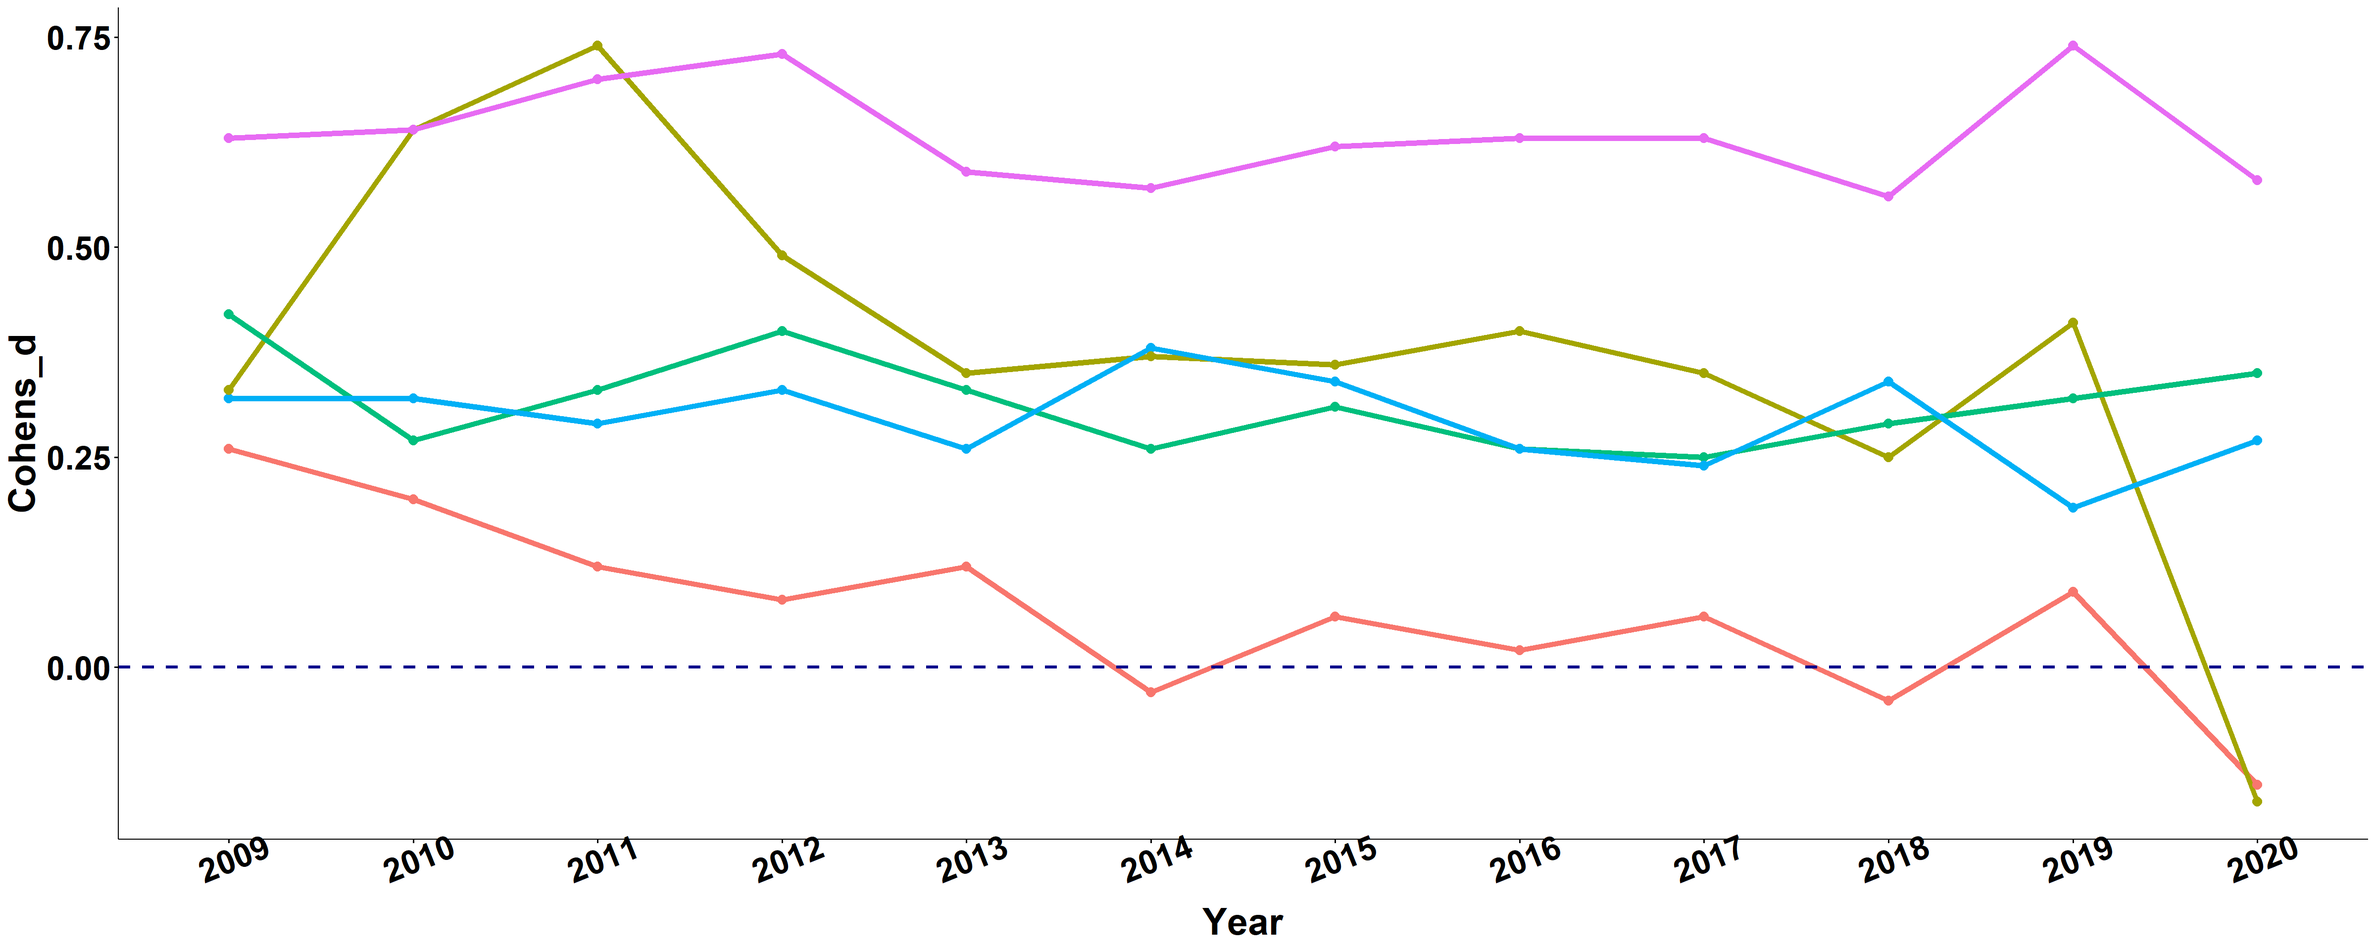
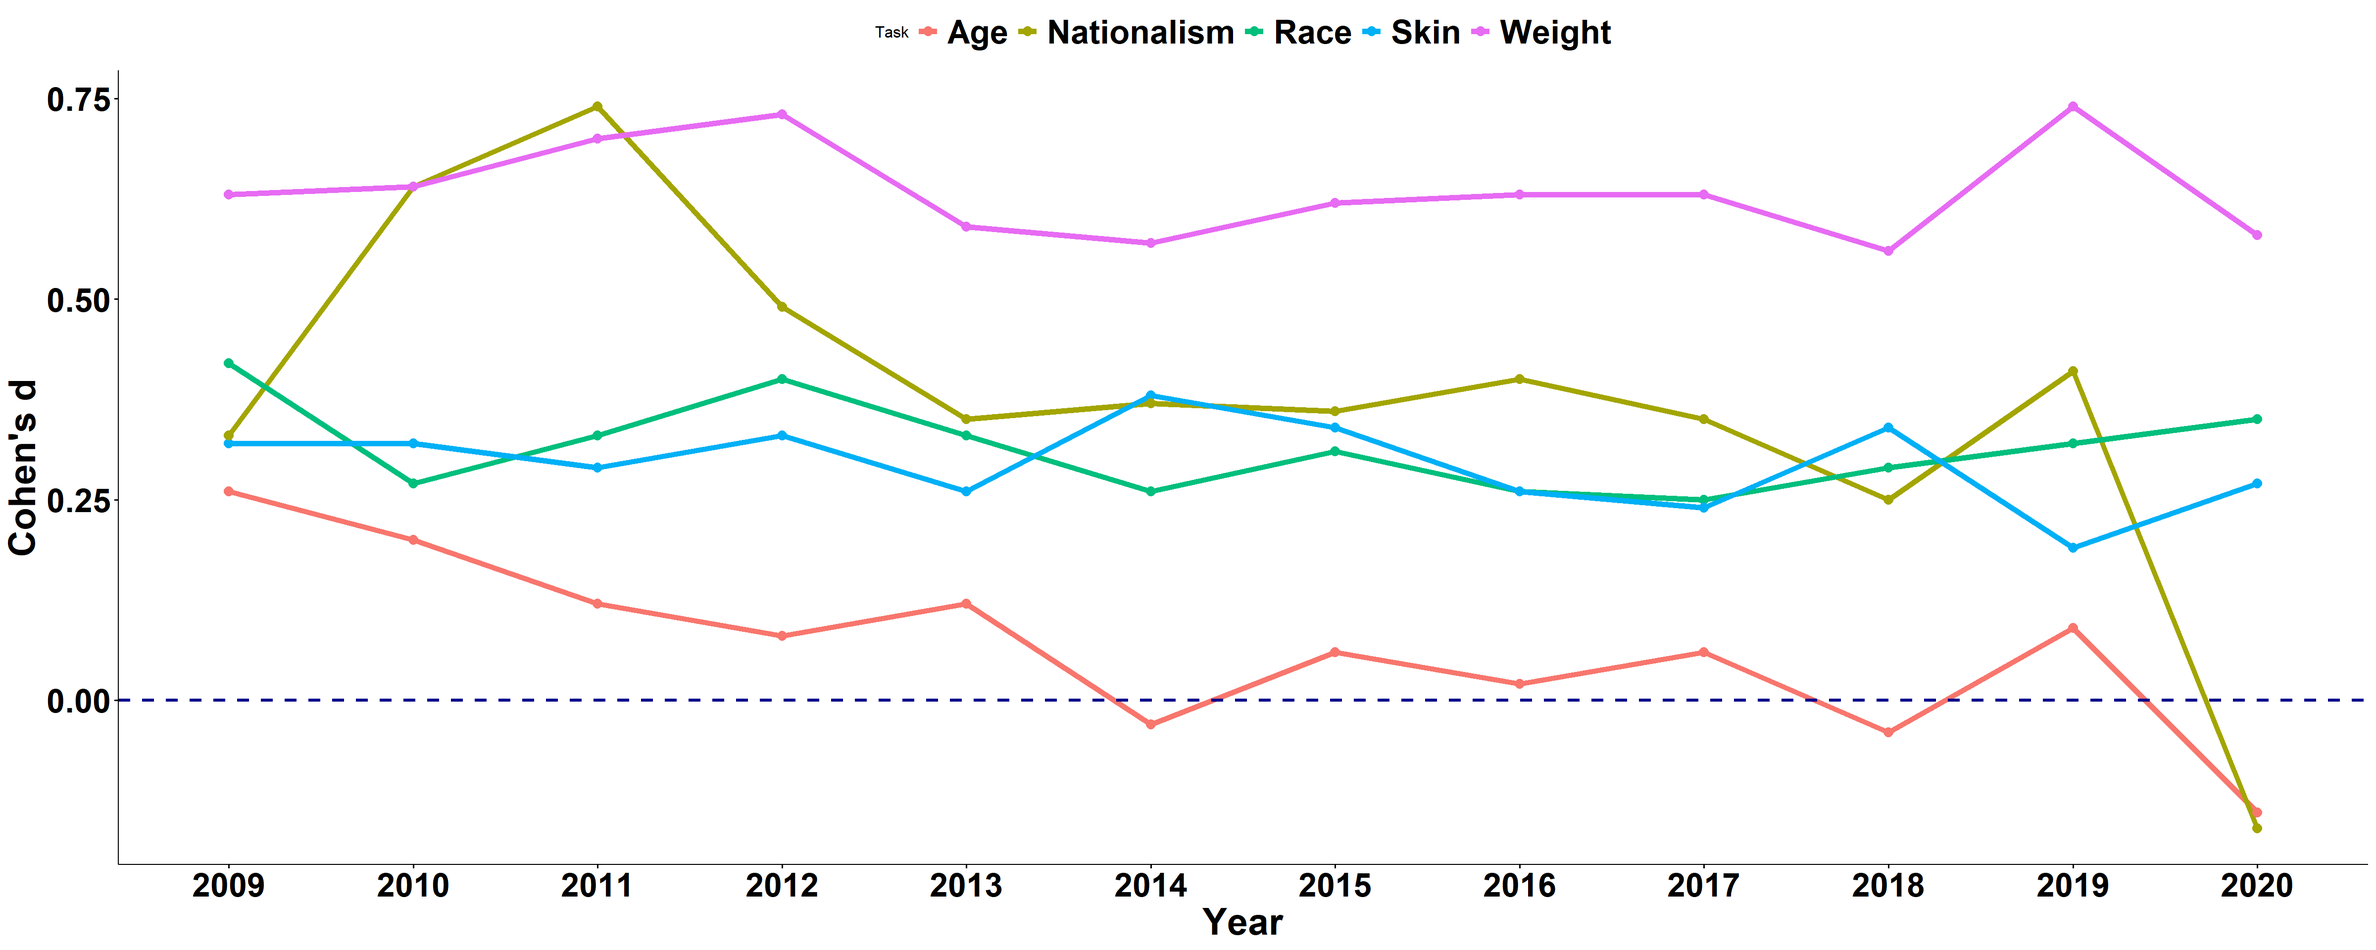
israel post: update content

diff --git a/public/post/biases-in-israel/index.html b/public/post/biases-in-israel/index.html
@@ -59,7 +59,7 @@
   "headline": "Biases in Israel",
   "description" : "Read about the implict and explicit biases in Israel",
   "inLanguage" : "en",
-  "wordCount":  3405 ,
+  "wordCount":  3393 ,
   "datePublished" : "2020-10-01T00:00:00",
   "dateModified" : "2020-10-01T00:00:00",
   "image" : "https:\/\/pi-international-blog.netlify.app\/img\/logo.png",
@@ -239,7 +239,7 @@
   
   
   
-    &nbsp;|&nbsp;<i class="fas fa-book"></i>&nbsp;3405&nbsp;words
+    &nbsp;|&nbsp;<i class="fas fa-book"></i>&nbsp;3393&nbsp;words
   
   
     
@@ -283,7 +283,8 @@
 <li>Gender - Science: ‘Male+Science - Female+Liberal arts’ IAT (N = 5708)</li>
 </ul>
 <p>The attributes used on all IATs except <em>Gender - Science</em> are Good vs. Bad.</p>
-<p><strong>Based on the participants’ reaction-times and errors, the IAT score on each of these tasks reflects the average strength of association between the categories and the attributes used in the task (for example, an association between Young people + Good and Old people + Bad).</strong> Some researchers interpret this strength of association as the participants’ implicit or automatic preference between the two categories/ an automatic bias in judgment (but see disclaimer below). Here we take a conservative stand, and thus refer to IAT scores in a certain direction (rather than zero) as <em>bias in IAT scores</em>.</p>
+<p>Based on the participants’ reaction-times and errors, the IAT score on each of these tasks reflects the average strength of association between the categories and the attributes used in the task (for example, an association between Young people + Good and Old people + Bad).<br />
+Some researchers interpret this strength of association as the participants’ implicit or automatic preference between the two categories/ an automatic bias in judgment (but see disclaimer below). <strong>Here we take a conservative stand</strong>, and thus refer to IAT scores in a certain direction (rather than zero) as <em>bias in IAT scores</em>.</p>
 <p>Each task also included 1 or 2 self-reported judgment measures:</p>
 <ul>
 <li>Self-Reported Direct Preference: Preference between the dominant and non-dominant category (scale: 1 = “I strongly prefer NON-DOMINANT CATEGORY to DOMINANT CATEGORY to 7”I strongly prefer DOMINANT CATEGORY to NON-DOMINANT CATEGORY")</li>
@@ -291,8 +292,8 @@
 </ul>
 <p><strong>The tasks also included secondary measures such as perception measures and demographic items. You can check out the data and the full analysis report on OSF!</strong> (<em>INSERT LINK HERE</em>)</p>
 <p>We analyzed the results of each task, from 12 years of data collection (2009-2020) and a total of 39991 participants.
-We found a robust and persistent pro-dominant association: The IAT scores from all tasks revealed that Israelis <strong>strongly</strong> associate the dominant social groups (e.g., White people, Ashkenazi people, Young people) with positive attributes and the non-dominant social groups (Black people, Mizrahi people, Old people) with negative attributes.
-The results from our analyses could be used as a first step in the examination of (supposedly) automatic bias toward groups Israel and of the most prominent bias in this country (that is, the category with the largest difference between the two groups). This would be a first step as Project Implicit’s samples are not representative samples, and because it would be preferable to test the generalizability of automatic bias beyond the IAT scores.</p>
+We found a robust and persistent pro-dominant bias: The IAT scores from all tasks revealed that Israelis <strong>strongly</strong> associate the dominant social groups (e.g., White people, Ashkenazi people, Young people) with positive attributes and the non-dominant social groups (Black people, Mizrahi people, Old people) with negative attributes.
+The results from our analyses could be used as a first step in the examination of (supposedly) automatic bias toward groups Israel and of the most prominent bias in this country (that is, the task with the largest difference between the two groups/categories). This would be a first step as Project Implicit’s samples are not representative samples, and because it would be preferable to test the generalizability of automatic bias beyond the IAT scores.</p>
 <div id="iat-scores-per-task" class="section level2">
 <h2>IAT Scores per Task</h2>
 <p>All tasks point to a pro-dominant &gt; association. The strongest bias among Israeli participants is regarding <strong>Nationalism (Own Country &gt; USA)</strong>, <strong>Age (Young &gt; Old)</strong>, and <strong>Gender-Science stereotypes (Male+Science - Female+Liberal arts &gt; Male+Liberal arts - Female+Science)</strong>, and the smallest bias is regarding <strong>Sexuality (Straight &gt; Gay people)</strong> and <strong>Weight (Thin &gt; Fat)</strong>:</p>
@@ -1022,18 +1023,18 @@ Weight
 <pre class="r"><code>iat_df$Year = factor(iat_df$Year, c(&quot;2009&quot;, &quot;2010&quot;, &quot;2011&quot;, &quot;2012&quot;, 
     &quot;2013&quot;, &quot;2014&quot;, &quot;2015&quot;, &quot;2016&quot;, &quot;2017&quot;, &quot;2018&quot;, &quot;2019&quot;, &quot;2020&quot;))
 
-pp &lt;- ggline(iat_df, x = &quot;Year&quot;, y = &quot;Cohens_d&quot;, color = &quot;Task&quot;, 
-    size = 2)
+pp &lt;- ggline(iat_df, x = &quot;Year&quot;, y = &quot;Cohens_d&quot;, ylab = &quot;Cohen&#39;s d&quot;, 
+    color = &quot;Task&quot;, size = 2)
 
 pp &lt;- pp + geom_hline(yintercept = 0, linetype = &quot;dashed&quot;, color = &quot;darkblue&quot;, 
-    size = 1.2) + theme(axis.text.x = element_text(angle = 22))
+    size = 1.2)
 
 pp &lt;- pp + font(&quot;title&quot;, size = 20, color = &quot;black&quot;, face = &quot;bold&quot;) + 
     font(&quot;legend.text&quot;, size = 25, color = &quot;black&quot;, face = &quot;bold&quot;) + 
     font(&quot;xlab&quot;, size = 28, color = &quot;black&quot;, face = &quot;bold&quot;) + 
     font(&quot;ylab&quot;, size = 28, color = &quot;black&quot;, face = &quot;bold&quot;) + 
     font(&quot;xy.text&quot;, size = 25, color = &quot;black&quot;, face = &quot;bold&quot;)
-pp &lt;- pp + theme(legend.position = &quot;none&quot;)
+# pp &lt;- pp +theme(legend.position=&#39;none&#39;)
 
 pp</code></pre>
 <p><img src="/post/2020-10-01-biases-in-israel.en_files/figure-html/unnamed-chunk-11-1.png" width="2400" /></p>
@@ -1043,18 +1044,18 @@ pp</code></pre>
 <pre class="r"><code>att_df$Year = factor(att_df$Year, c(&quot;2009&quot;, &quot;2010&quot;, &quot;2011&quot;, &quot;2012&quot;, 
     &quot;2013&quot;, &quot;2014&quot;, &quot;2015&quot;, &quot;2016&quot;, &quot;2017&quot;, &quot;2018&quot;, &quot;2019&quot;, &quot;2020&quot;))
 
-pp &lt;- ggline(att_df, x = &quot;Year&quot;, y = &quot;Cohens_d&quot;, color = &quot;Task&quot;, 
-    size = 2)
+pp &lt;- ggline(att_df, x = &quot;Year&quot;, y = &quot;Cohens_d&quot;, ylab = &quot;Cohen&#39;s d&quot;, 
+    color = &quot;Task&quot;, size = 2)
 
 pp &lt;- pp + geom_hline(yintercept = 0, linetype = &quot;dashed&quot;, color = &quot;darkblue&quot;, 
-    size = 1.2) + theme(axis.text.x = element_text(angle = 22))
+    size = 1.2)
 
 pp &lt;- pp + font(&quot;title&quot;, size = 20, color = &quot;black&quot;, face = &quot;bold&quot;) + 
     font(&quot;legend.text&quot;, size = 25, color = &quot;black&quot;, face = &quot;bold&quot;) + 
     font(&quot;xlab&quot;, size = 28, color = &quot;black&quot;, face = &quot;bold&quot;) + 
     font(&quot;ylab&quot;, size = 28, color = &quot;black&quot;, face = &quot;bold&quot;) + 
     font(&quot;xy.text&quot;, size = 25, color = &quot;black&quot;, face = &quot;bold&quot;)
-pp &lt;- pp + theme(legend.position = &quot;none&quot;)
+# pp &lt;- pp +theme(legend.position=&#39;none&#39;)
 
 pp</code></pre>
 <p><img src="/post/2020-10-01-biases-in-israel.en_files/figure-html/unnamed-chunk-12-1.png" width="2400" /></p>
@@ -1065,18 +1066,18 @@ pp</code></pre>
     &quot;2012&quot;, &quot;2013&quot;, &quot;2014&quot;, &quot;2015&quot;, &quot;2016&quot;, &quot;2017&quot;, &quot;2018&quot;, &quot;2019&quot;, 
     &quot;2020&quot;))
 
-pp &lt;- ggline(thermo_df, x = &quot;Year&quot;, y = &quot;Cohens_d&quot;, color = &quot;Task&quot;, 
-    size = 2)
+pp &lt;- ggline(thermo_df, x = &quot;Year&quot;, y = &quot;Cohens_d&quot;, ylab = &quot;Cohen&#39;s d&quot;, 
+    color = &quot;Task&quot;, size = 2)
 
 pp &lt;- pp + geom_hline(yintercept = 0, linetype = &quot;dashed&quot;, color = &quot;darkblue&quot;, 
-    size = 1.2) + theme(axis.text.x = element_text(angle = 22))
+    size = 1.2)
 
 pp &lt;- pp + font(&quot;title&quot;, size = 20, color = &quot;black&quot;, face = &quot;bold&quot;) + 
     font(&quot;legend.text&quot;, size = 25, color = &quot;black&quot;, face = &quot;bold&quot;) + 
     font(&quot;xlab&quot;, size = 28, color = &quot;black&quot;, face = &quot;bold&quot;) + 
     font(&quot;ylab&quot;, size = 28, color = &quot;black&quot;, face = &quot;bold&quot;) + 
     font(&quot;xy.text&quot;, size = 25, color = &quot;black&quot;, face = &quot;bold&quot;)
-pp &lt;- pp + theme(legend.position = &quot;none&quot;)
+# pp &lt;- pp +theme(legend.position=&#39;none&#39;)
 
 pp</code></pre>
 <p><img src="/post/2020-10-01-biases-in-israel.en_files/figure-html/unnamed-chunk-13-1.png" width="2400" /></p>

diff --git a/content/post/2020-10-01-biases-in-israel.en.html b/content/post/2020-10-01-biases-in-israel.en.html
@@ -46,7 +46,8 @@ classoption: landscape
 <li>Gender - Science: ‘Male+Science - Female+Liberal arts’ IAT (N = 5708)</li>
 </ul>
 <p>The attributes used on all IATs except <em>Gender - Science</em> are Good vs. Bad.</p>
-<p><strong>Based on the participants’ reaction-times and errors, the IAT score on each of these tasks reflects the average strength of association between the categories and the attributes used in the task (for example, an association between Young people + Good and Old people + Bad).</strong> Some researchers interpret this strength of association as the participants’ implicit or automatic preference between the two categories/ an automatic bias in judgment (but see disclaimer below). Here we take a conservative stand, and thus refer to IAT scores in a certain direction (rather than zero) as <em>bias in IAT scores</em>.</p>
+<p>Based on the participants’ reaction-times and errors, the IAT score on each of these tasks reflects the average strength of association between the categories and the attributes used in the task (for example, an association between Young people + Good and Old people + Bad).<br />
+Some researchers interpret this strength of association as the participants’ implicit or automatic preference between the two categories/ an automatic bias in judgment (but see disclaimer below). <strong>Here we take a conservative stand</strong>, and thus refer to IAT scores in a certain direction (rather than zero) as <em>bias in IAT scores</em>.</p>
 <p>Each task also included 1 or 2 self-reported judgment measures:</p>
 <ul>
 <li>Self-Reported Direct Preference: Preference between the dominant and non-dominant category (scale: 1 = “I strongly prefer NON-DOMINANT CATEGORY to DOMINANT CATEGORY to 7”I strongly prefer DOMINANT CATEGORY to NON-DOMINANT CATEGORY")</li>
@@ -54,8 +55,8 @@ classoption: landscape
 </ul>
 <p><strong>The tasks also included secondary measures such as perception measures and demographic items. You can check out the data and the full analysis report on OSF!</strong> (<em>INSERT LINK HERE</em>)</p>
 <p>We analyzed the results of each task, from 12 years of data collection (2009-2020) and a total of 39991 participants.
-We found a robust and persistent pro-dominant association: The IAT scores from all tasks revealed that Israelis <strong>strongly</strong> associate the dominant social groups (e.g., White people, Ashkenazi people, Young people) with positive attributes and the non-dominant social groups (Black people, Mizrahi people, Old people) with negative attributes.
-The results from our analyses could be used as a first step in the examination of (supposedly) automatic bias toward groups Israel and of the most prominent bias in this country (that is, the category with the largest difference between the two groups). This would be a first step as Project Implicit’s samples are not representative samples, and because it would be preferable to test the generalizability of automatic bias beyond the IAT scores.</p>
+We found a robust and persistent pro-dominant bias: The IAT scores from all tasks revealed that Israelis <strong>strongly</strong> associate the dominant social groups (e.g., White people, Ashkenazi people, Young people) with positive attributes and the non-dominant social groups (Black people, Mizrahi people, Old people) with negative attributes.
+The results from our analyses could be used as a first step in the examination of (supposedly) automatic bias toward groups Israel and of the most prominent bias in this country (that is, the task with the largest difference between the two groups/categories). This would be a first step as Project Implicit’s samples are not representative samples, and because it would be preferable to test the generalizability of automatic bias beyond the IAT scores.</p>
 <div id="iat-scores-per-task" class="section level2">
 <h2>IAT Scores per Task</h2>
 <p>All tasks point to a pro-dominant &gt; association. The strongest bias among Israeli participants is regarding <strong>Nationalism (Own Country &gt; USA)</strong>, <strong>Age (Young &gt; Old)</strong>, and <strong>Gender-Science stereotypes (Male+Science - Female+Liberal arts &gt; Male+Liberal arts - Female+Science)</strong>, and the smallest bias is regarding <strong>Sexuality (Straight &gt; Gay people)</strong> and <strong>Weight (Thin &gt; Fat)</strong>:</p>
@@ -785,18 +786,18 @@ Weight
 <pre class="r"><code>iat_df$Year = factor(iat_df$Year, c(&quot;2009&quot;, &quot;2010&quot;, &quot;2011&quot;, &quot;2012&quot;, 
     &quot;2013&quot;, &quot;2014&quot;, &quot;2015&quot;, &quot;2016&quot;, &quot;2017&quot;, &quot;2018&quot;, &quot;2019&quot;, &quot;2020&quot;))
 
-pp &lt;- ggline(iat_df, x = &quot;Year&quot;, y = &quot;Cohens_d&quot;, color = &quot;Task&quot;, 
-    size = 2)
+pp &lt;- ggline(iat_df, x = &quot;Year&quot;, y = &quot;Cohens_d&quot;, ylab = &quot;Cohen&#39;s d&quot;, 
+    color = &quot;Task&quot;, size = 2)
 
 pp &lt;- pp + geom_hline(yintercept = 0, linetype = &quot;dashed&quot;, color = &quot;darkblue&quot;, 
-    size = 1.2) + theme(axis.text.x = element_text(angle = 22))
+    size = 1.2)
 
 pp &lt;- pp + font(&quot;title&quot;, size = 20, color = &quot;black&quot;, face = &quot;bold&quot;) + 
     font(&quot;legend.text&quot;, size = 25, color = &quot;black&quot;, face = &quot;bold&quot;) + 
     font(&quot;xlab&quot;, size = 28, color = &quot;black&quot;, face = &quot;bold&quot;) + 
     font(&quot;ylab&quot;, size = 28, color = &quot;black&quot;, face = &quot;bold&quot;) + 
     font(&quot;xy.text&quot;, size = 25, color = &quot;black&quot;, face = &quot;bold&quot;)
-pp &lt;- pp + theme(legend.position = &quot;none&quot;)
+# pp &lt;- pp +theme(legend.position=&#39;none&#39;)
 
 pp</code></pre>
 <p><img src="/post/2020-10-01-biases-in-israel.en_files/figure-html/unnamed-chunk-11-1.png" width="2400" /></p>
@@ -806,18 +807,18 @@ pp</code></pre>
 <pre class="r"><code>att_df$Year = factor(att_df$Year, c(&quot;2009&quot;, &quot;2010&quot;, &quot;2011&quot;, &quot;2012&quot;, 
     &quot;2013&quot;, &quot;2014&quot;, &quot;2015&quot;, &quot;2016&quot;, &quot;2017&quot;, &quot;2018&quot;, &quot;2019&quot;, &quot;2020&quot;))
 
-pp &lt;- ggline(att_df, x = &quot;Year&quot;, y = &quot;Cohens_d&quot;, color = &quot;Task&quot;, 
-    size = 2)
+pp &lt;- ggline(att_df, x = &quot;Year&quot;, y = &quot;Cohens_d&quot;, ylab = &quot;Cohen&#39;s d&quot;, 
+    color = &quot;Task&quot;, size = 2)
 
 pp &lt;- pp + geom_hline(yintercept = 0, linetype = &quot;dashed&quot;, color = &quot;darkblue&quot;, 
-    size = 1.2) + theme(axis.text.x = element_text(angle = 22))
+    size = 1.2)
 
 pp &lt;- pp + font(&quot;title&quot;, size = 20, color = &quot;black&quot;, face = &quot;bold&quot;) + 
     font(&quot;legend.text&quot;, size = 25, color = &quot;black&quot;, face = &quot;bold&quot;) + 
     font(&quot;xlab&quot;, size = 28, color = &quot;black&quot;, face = &quot;bold&quot;) + 
     font(&quot;ylab&quot;, size = 28, color = &quot;black&quot;, face = &quot;bold&quot;) + 
     font(&quot;xy.text&quot;, size = 25, color = &quot;black&quot;, face = &quot;bold&quot;)
-pp &lt;- pp + theme(legend.position = &quot;none&quot;)
+# pp &lt;- pp +theme(legend.position=&#39;none&#39;)
 
 pp</code></pre>
 <p><img src="/post/2020-10-01-biases-in-israel.en_files/figure-html/unnamed-chunk-12-1.png" width="2400" /></p>
@@ -828,18 +829,18 @@ pp</code></pre>
     &quot;2012&quot;, &quot;2013&quot;, &quot;2014&quot;, &quot;2015&quot;, &quot;2016&quot;, &quot;2017&quot;, &quot;2018&quot;, &quot;2019&quot;, 
     &quot;2020&quot;))
 
-pp &lt;- ggline(thermo_df, x = &quot;Year&quot;, y = &quot;Cohens_d&quot;, color = &quot;Task&quot;, 
-    size = 2)
+pp &lt;- ggline(thermo_df, x = &quot;Year&quot;, y = &quot;Cohens_d&quot;, ylab = &quot;Cohen&#39;s d&quot;, 
+    color = &quot;Task&quot;, size = 2)
 
 pp &lt;- pp + geom_hline(yintercept = 0, linetype = &quot;dashed&quot;, color = &quot;darkblue&quot;, 
-    size = 1.2) + theme(axis.text.x = element_text(angle = 22))
+    size = 1.2)
 
 pp &lt;- pp + font(&quot;title&quot;, size = 20, color = &quot;black&quot;, face = &quot;bold&quot;) + 
     font(&quot;legend.text&quot;, size = 25, color = &quot;black&quot;, face = &quot;bold&quot;) + 
     font(&quot;xlab&quot;, size = 28, color = &quot;black&quot;, face = &quot;bold&quot;) + 
     font(&quot;ylab&quot;, size = 28, color = &quot;black&quot;, face = &quot;bold&quot;) + 
     font(&quot;xy.text&quot;, size = 25, color = &quot;black&quot;, face = &quot;bold&quot;)
-pp &lt;- pp + theme(legend.position = &quot;none&quot;)
+# pp &lt;- pp +theme(legend.position=&#39;none&#39;)
 
 pp</code></pre>
 <p><img src="/post/2020-10-01-biases-in-israel.en_files/figure-html/unnamed-chunk-13-1.png" width="2400" /></p>

diff --git a/public/categories/age-iat/index.html b/public/categories/age-iat/index.html
@@ -215,7 +215,7 @@
   
   
   
-    &nbsp;|&nbsp;<i class="fas fa-book"></i>&nbsp;3405&nbsp;words
+    &nbsp;|&nbsp;<i class="fas fa-book"></i>&nbsp;3393&nbsp;words
   
   
     

diff --git a/public/categories/ethnicity-iat/index.html b/public/categories/ethnicity-iat/index.html
@@ -215,7 +215,7 @@
   
   
   
-    &nbsp;|&nbsp;<i class="fas fa-book"></i>&nbsp;3405&nbsp;words
+    &nbsp;|&nbsp;<i class="fas fa-book"></i>&nbsp;3393&nbsp;words
   
   
     

diff --git a/public/categories/gender-science-iat/index.html b/public/categories/gender-science-iat/index.html
@@ -215,7 +215,7 @@
   
   
   
-    &nbsp;|&nbsp;<i class="fas fa-book"></i>&nbsp;3405&nbsp;words
+    &nbsp;|&nbsp;<i class="fas fa-book"></i>&nbsp;3393&nbsp;words
   
   
     

diff --git a/public/categories/iat/index.html b/public/categories/iat/index.html
@@ -215,7 +215,7 @@
   
   
   
-    &nbsp;|&nbsp;<i class="fas fa-book"></i>&nbsp;3405&nbsp;words
+    &nbsp;|&nbsp;<i class="fas fa-book"></i>&nbsp;3393&nbsp;words
   
   
     

diff --git a/public/categories/israel/index.html b/public/categories/israel/index.html
@@ -215,7 +215,7 @@
   
   
   
-    &nbsp;|&nbsp;<i class="fas fa-book"></i>&nbsp;3405&nbsp;words
+    &nbsp;|&nbsp;<i class="fas fa-book"></i>&nbsp;3393&nbsp;words
   
   
     

diff --git a/public/categories/nationalism-iat/index.html b/public/categories/nationalism-iat/index.html
@@ -215,7 +215,7 @@
   
   
   
-    &nbsp;|&nbsp;<i class="fas fa-book"></i>&nbsp;3405&nbsp;words
+    &nbsp;|&nbsp;<i class="fas fa-book"></i>&nbsp;3393&nbsp;words
   
   
     

diff --git a/public/categories/race-iat/index.html b/public/categories/race-iat/index.html
@@ -215,7 +215,7 @@
   
   
   
-    &nbsp;|&nbsp;<i class="fas fa-book"></i>&nbsp;3405&nbsp;words
+    &nbsp;|&nbsp;<i class="fas fa-book"></i>&nbsp;3393&nbsp;words
   
   
     

diff --git a/public/categories/sexuality-iat/index.html b/public/categories/sexuality-iat/index.html
@@ -215,7 +215,7 @@
   
   
   
-    &nbsp;|&nbsp;<i class="fas fa-book"></i>&nbsp;3405&nbsp;words
+    &nbsp;|&nbsp;<i class="fas fa-book"></i>&nbsp;3393&nbsp;words
   
   
     

diff --git a/public/categories/skin-iat/index.html b/public/categories/skin-iat/index.html
@@ -215,7 +215,7 @@
   
   
   
-    &nbsp;|&nbsp;<i class="fas fa-book"></i>&nbsp;3405&nbsp;words
+    &nbsp;|&nbsp;<i class="fas fa-book"></i>&nbsp;3393&nbsp;words
   
   
     

diff --git a/public/categories/weight-iat/index.html b/public/categories/weight-iat/index.html
@@ -215,7 +215,7 @@
   
   
   
-    &nbsp;|&nbsp;<i class="fas fa-book"></i>&nbsp;3405&nbsp;words
+    &nbsp;|&nbsp;<i class="fas fa-book"></i>&nbsp;3393&nbsp;words
   
   
     
